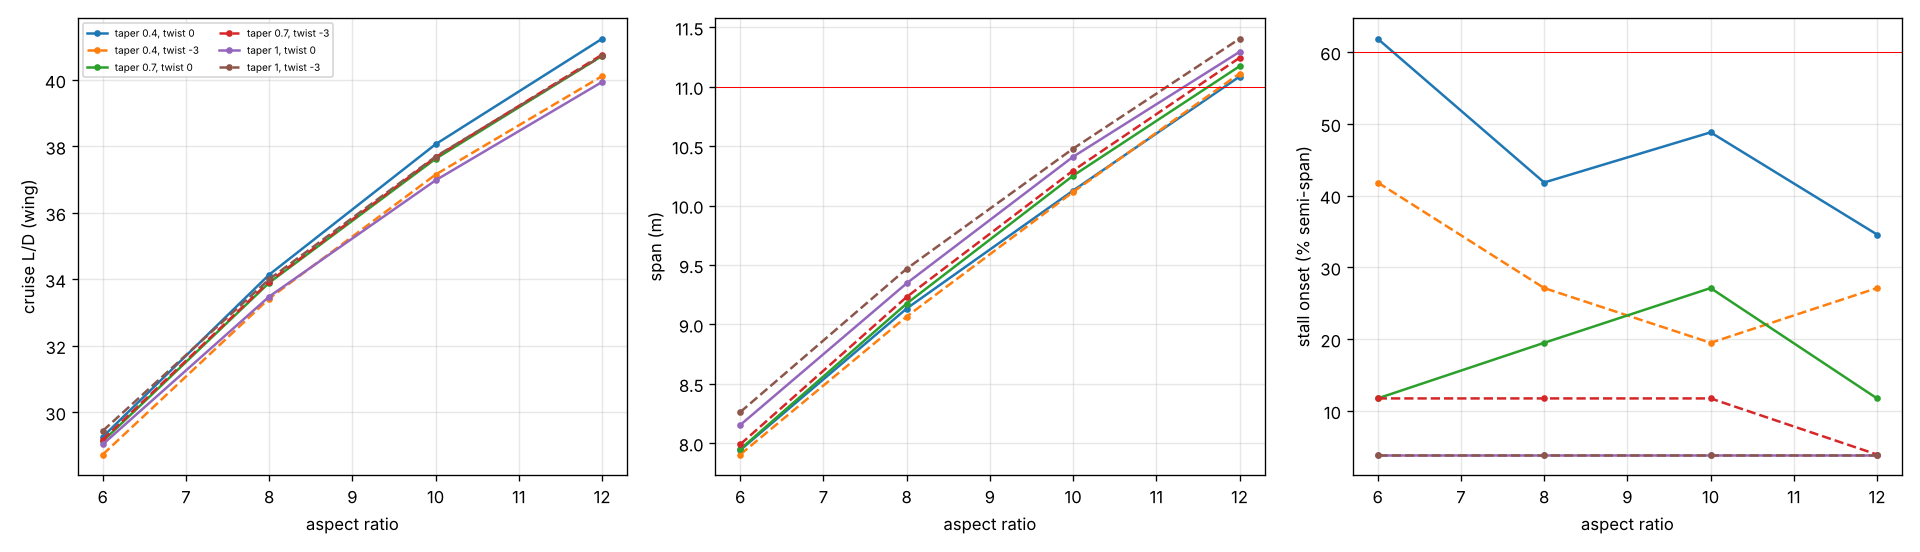
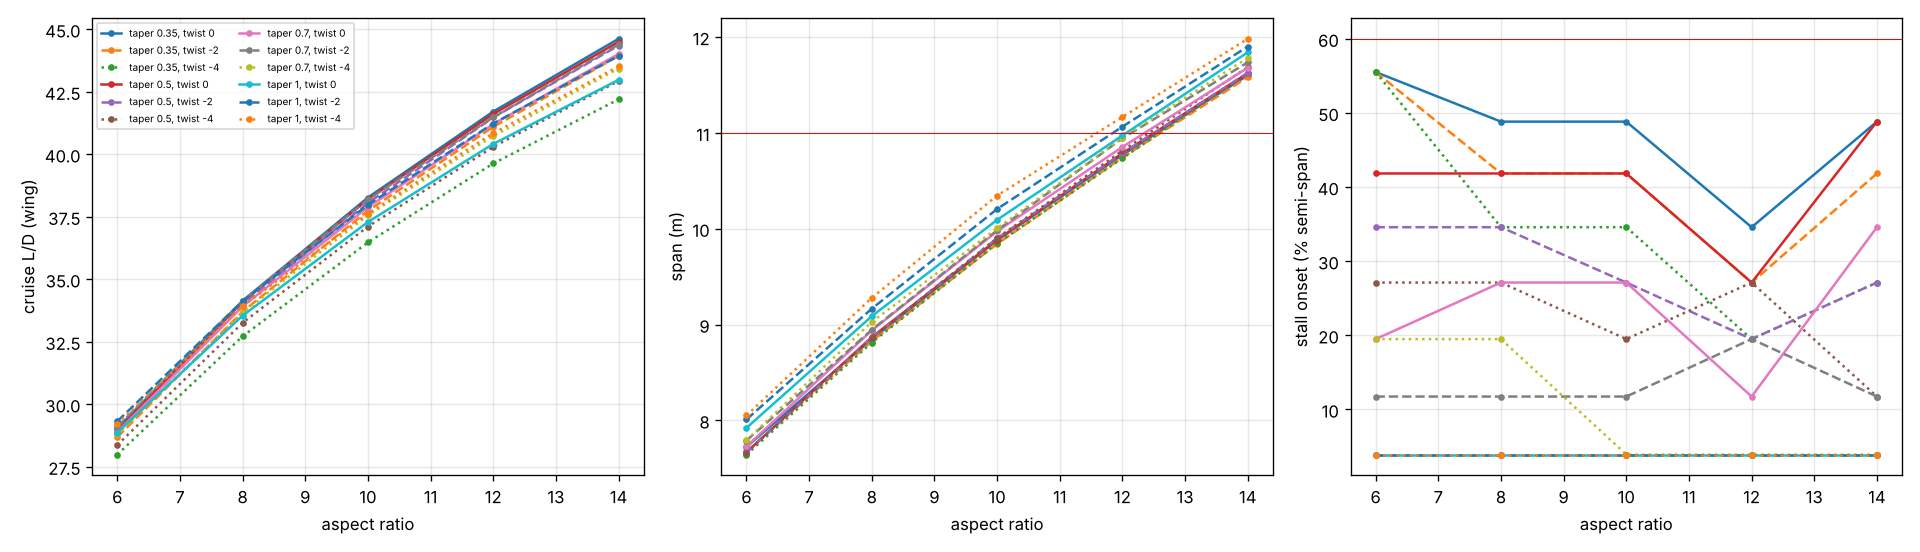
Free transition near stall: fix the e^N coupling (no more fully turbulent fallbacks)
- laminar march starts at the real stagnation point (U_e clipped to 0 where
  the wall Cp > 1 gave a spurious separation and a 0.2 c laminar region at
  alpha 14); bubble length along the surface; stagnation->LE stretch laminar
- march stops when H leaves the physical range (H 3.55 -> -143 behind the
  suction peak reported 'laminar to the trailing edge')
- wake / trailing-edge cells stay turbulent; intermittency changes blended
  over the settle iterations (cold starts at alpha 18-22, Re 4.4e6)
- polar: engineering convergence for long runs, Cd oscillation band 2 %
NACA 2412 Re 2.2e6 / 4.4e6, -6..22 deg: 0 fallbacks (were 5 / 2).
Report: validation/transition_stall_fix.md

diff --git a/src/transition.py b/src/transition.py
@@ -104,6 +104,16 @@ def _cd2_ret_over_hs(H):        # 2 Re_theta CD / H*
                     0.207 - 0.0016 * (H - 4) ** 2 / (1 + 0.02 * (H - 4) ** 2))
 
 
+def _separated(y, H_sep):
+    """laminar separation, or a march that left the physical range: in the
+    steep adverse gradient behind a high-alpha suction peak one RK4 sub-step
+    can throw H from ~3.5 to large negative values (NACA 2412, Re 2.2e6,
+    alpha 10: H 3.55 -> -143); the march then ran on to the trailing edge
+    and reported 'laminar to the trailing edge' -> transition jumped aft and
+    the leading-edge region stalled"""
+    return (not np.all(np.isfinite(y))) or y[1] >= H_sep or y[1] < 1.02 or y[0] <= 0.0
+
+
 def laminar_bl(s, Ue, re, H_sep=3.8):
     """Laminar integral boundary layer on a given edge-velocity distribution
     (momentum + kinetic-energy integral equations, Drela's laminar closure):
@@ -161,14 +171,30 @@ def laminar_bl(s, Ue, re, H_sep=3.8):
             k4 = rhs(x + hh, y + hh * k3)
             y = y + hh / 6 * (k1 + 2 * k2 + 2 * k3 + k4)
             x += hh
-            if y[1] >= H_sep or not np.all(np.isfinite(y)):
+            if _separated(y, H_sep):
                 break
-        if y[1] >= H_sep or not np.all(np.isfinite(y)):
+        if _separated(y, H_sep):
             sep = i
             break
         th[i], H[i] = y
     ret = Ue * th * re
     return th, H, ret, sep
+
+
+def march_start(Ue, u_min=0.02):
+    """index where the laminar march starts: the last of the leading stations
+    with U_e ~ 0. Next to the stagnation point the RANS wall pressure can
+    slightly exceed the free-stream total pressure (Cp > 1 by a few 1e-3:
+    numerical total-pressure error), U_e = sqrt(1 - 2 p) is then clipped to
+    0 for one or two columns; marching from there gave theta from U_e ~ 0
+    and an immediate spurious 'laminar separation' (NACA 2412, Re 2.2e6,
+    alpha 14: transition estimate 0.2 c instead of 0.01 c -> the leading-edge
+    laminar region burst into stall and the solution diverged)."""
+    Ue = np.asarray(Ue, float)
+    i0 = 0
+    while i0 + 2 < len(Ue) and Ue[i0 + 1] < u_min:
+        i0 += 1
+    return i0
 
 
 # ----------------------------------------------------------------------
@@ -298,6 +324,16 @@ class Transition:
         self._sep_hist = {"upper": [], "lower": []}      # last 3 settled estimates
         self._last_dir = {"upper": 0, "lower": 0}
         self.last = None
+        # intermittency changes are blended in over ramp_n iterations (set by
+        # solve_with_transition; 0 = at once). gamma multiplies the eddy
+        # viscosity, so switching a region laminar in one iteration removes
+        # nu_t ~ 1e4 nu there at once: a cold start deep in stall (NACA 2412,
+        # Re 4.4e6, alpha 18; the turbulent start-up flow still unsettled)
+        # took the lower surface laminar to the trailing edge, and the
+        # trailing-edge cells under the separated upper flow blew up within
+        # 10 iterations. The converged solution is the same.
+        self.ramp_n = 0
+        self._ramp = None
         m = solver.m
         wall = np.where(solver.b_wall)[0]
         # nearest wall face of every cell, and wall face -> column
@@ -306,6 +342,8 @@ class Transition:
         from turbulence import wall_distance
         _, self._nearest = wall_distance(m, wall, return_index=True)
         self._face_col = cKDTree(self.cols["xw"]).query(m.bxf[wall])[1]
+        x_te = float(m.bxf[wall][:, 0].max())
+        self._before_te = m.xc[:, 0] < x_te - 0.003 * float(np.ptp(m.bxf[wall][:, 0]))
         if self.auto_start:
             solver.turb.gamma = None               # fully turbulent until the first estimate
         else:
@@ -332,16 +370,47 @@ class Transition:
         lam_col = np.zeros(len(self.cols["xw"]), bool)
         for side in ("upper", "lower"):
             sd = surf[side]
+            # at high |alpha| the stagnation point lies on the other side of
+            # the leading edge: the stretch stagnation point -> leading edge
+            # (x decreasing) is laminar whenever transition is downstream of it
+            i_le = int(np.argmin(sd["x"]))
             lam = sd["x"] <= self.x_tr[side]
+            if self.x_tr[side] > sd["x"][i_le]:
+                lam[:i_le + 1] = True
             # laminar only up to the first point past x_tr (monotone in s)
             stop = np.argmax(~lam) if (~lam).any() else len(lam)
             lam_col[sd["i"][:stop]] = True
         lam_col[surf["i_stag"]] = True
         face_lam = lam_col[self._face_col]
-        gamma = np.where(face_lam[self._nearest], 0.0, 1.0)
-        self.s.turb.gamma = gamma
+        # the wake and the trailing-edge corner cells stay turbulent (as the
+        # wake in XFOIL): with a lower surface laminar to the trailing edge
+        # these cells (wall distance ~1e-4 c) were laminar too, and under a
+        # separated upper-surface flow they blew up (NACA 2412, Re 4.4e6,
+        # cold start at alpha 18-22)
+        gamma = np.where(face_lam[self._nearest] & self._before_te, 0.0, 1.0)
+        cur = self.s.turb.gamma
+        if self.ramp_n > 0:
+            g0 = np.ones_like(gamma) if cur is None else np.asarray(cur, float).copy()
+            if np.any(g0 != gamma):
+                self._ramp = [g0, gamma, 0]
+                self.s.turb.gamma = g0
+            else:
+                self._ramp = None
+                self.s.turb.gamma = gamma
+        else:
+            self.s.turb.gamma = gamma
         self.surf = surf
         return gamma
+
+    def step(self):
+        """one iteration of an intermittency blend in progress"""
+        if self._ramp is None:
+            return
+        g0, g1, k = self._ramp
+        k += 1
+        w = min(k / self.ramp_n, 1.0)
+        self.s.turb.gamma = g0 + w * (g1 - g0)
+        self._ramp = None if w >= 1.0 else [g0, g1, k]
 
     def estimate(self, surf):
         """Transition estimate per surface from the laminar integral boundary
@@ -352,23 +421,35 @@ class Transition:
         out = {}
         for side in ("upper", "lower"):
             sd = surf[side]
-            th, H, ret, sep = laminar_bl(sd["s"], sd["Ue"], self.re)
+            i0 = march_start(sd["Ue"])
+            s, Ue, x = sd["s"][i0:] - sd["s"][i0], sd["Ue"][i0:], sd["x"][i0:]
+            i_le = int(np.argmin(x))
+
+            def x_at(sv):
+                """chordwise position of the arc length sv; on the stretch
+                ahead of the leading edge -> the leading edge"""
+                if sv <= s[i_le]:
+                    return float(x[i_le])
+                return float(min(np.interp(sv, s, x), 1.0)) if sv <= s[-1] else 1.0
+
+            th, H, ret, sep = laminar_bl(s, Ue, self.re)
             end = sep if sep is not None else len(th)
             end = max(end, 2)
-            N, rate = integrate_N(sd["s"][:end], H[:end], ret[:end], th[:end])
+            N, rate = integrate_N(s[:end], H[:end], ret[:end], th[:end])
             hit = np.where(N >= self.ncrit)[0]
             if len(hit):
                 j = hit[0]
                 f = (self.ncrit - N[j - 1]) / max(N[j] - N[j - 1], 1e-12)
-                x_est, how = sd["x"][j - 1] + f * (sd["x"][j] - sd["x"][j - 1]), "N_crit"
+                x_est, how = x_at(s[j - 1] + f * (s[j] - s[j - 1])), "N_crit"
             elif sep is not None:
-                x_est = min(sd["x"][sep] + 4e4 / (self.re * max(sd["Ue"][sep], 0.1)), 1.0)
+                # Horton's bubble transition length, measured along the surface
+                x_est = x_at(s[sep] + 4e4 / (self.re * max(Ue[sep], 0.1)))
                 how = "laminar separation"
             else:
                 x_est, how = 1.0, "laminar to the trailing edge"
             out[side] = {"x_est": float(x_est), "how": how, "N_end": float(N[end - 1]),
-                         "x_sep": None if sep is None else float(sd["x"][sep]),
-                         "N": N, "x": sd["x"][:end], "H": H[:end], "theta": th[:end]}
+                         "x_sep": None if sep is None else float(x[sep]),
+                         "N": N, "x": x[:end], "H": H[:end], "theta": th[:end]}
         return out
 
     def update(self, settled=True):
@@ -437,6 +518,13 @@ def solve_with_transition(solver, tr, tol=1e-7, max_iter=12000, chunk=400, settl
     n_start1, n_start2 = max(int(150 * scale), 10), max(int(300 * scale), 20)
     total = 0
     prev_F = None
+    tr.ramp_n = settle
+    user_cb = callback
+
+    def callback(it, r):
+        tr.step()
+        return user_cb(it, r) if user_cb is not None else None
+
     if tr.auto_start:                     # start: fully turbulent first
         # at least 150 iterations even if the residual is already small: a
         # warm-started field (previous angle, rotated) looks converged at once

diff --git a/tests/test_transition.py b/tests/test_transition.py
@@ -98,3 +98,52 @@ def test_coupled_naca0012_alpha0():
     assert r["Cd"] < 0.0065
     rt, _ = polar.run_point("naca0012", 3e6, 0.0, level=0.6, transition="off")
     assert rt["Cd"] > 1.4 * r["Cd"] and rt["x_tr_upper"] is None
+
+
+# ----------------------------------------------------------------------
+# high-alpha robustness (free transition near stall)
+# ----------------------------------------------------------------------
+def _le_surface(n_zero=2):
+    """'upper' surface as at high alpha: stagnation point on the lower side
+    (x decreasing to the leading edge, then increasing), U_e clipped to 0 at
+    the first stations (wall Cp slightly > 1), suction peak 2.4 just behind
+    the leading edge, steep recovery"""
+    x = np.r_[np.linspace(0.03, 0.0, 15), np.linspace(0.0, 1.0, 200)[1:]]
+    s = np.r_[0.0, np.cumsum(np.abs(np.diff(x)))]
+    s_pk = s[15] + 0.004
+    Ue = np.where(s < s_pk, 2.4 * s / s_pk, 2.4 - 1.2 * np.sqrt(np.maximum(s - s_pk, 0) / (s[-1] - s_pk)))
+    Ue[:n_zero] = 0.0
+    return {"s": s, "x": x, "Ue": Ue}
+
+
+def test_march_starts_at_the_real_stagnation_point():
+    """U_e ~ 0 at the first columns must not produce an immediate 'laminar
+    separation' far ahead of the leading edge (NACA 2412 alpha 14: the
+    estimate was 0.2 c instead of 0.01 c, and the solution diverged)"""
+    from types import SimpleNamespace
+    sd = _le_surface()
+    assert T.march_start(sd["Ue"]) == 1
+    # the plain march from the clipped station 'separates' at once (the bug)
+    assert T.laminar_bl(sd["s"], sd["Ue"], 2.2e6)[3] == 2
+    tr = SimpleNamespace(re=2.2e6, ncrit=9.0)
+    clean = _le_surface(0)
+    e = T.Transition.estimate(tr, {"upper": sd, "lower": clean})["upper"]
+    e0 = T.Transition.estimate(tr, {"upper": clean, "lower": clean})["upper"]
+    assert e["how"] == e0["how"]
+    assert e["x_est"] == pytest.approx(e0["x_est"], abs=1e-3)
+    assert e["x_sep"] == pytest.approx(e0["x_sep"], abs=1e-3)
+    assert e["x_est"] > 0.05                       # not the spurious leading-edge 'separation'
+
+
+def test_laminar_march_stops_when_it_leaves_the_physical_range():
+    """steep adverse gradient: H must never come back negative; the march
+    reports separation instead of running on to the trailing edge"""
+    sd = _le_surface()
+    i0 = T.march_start(sd["Ue"])
+    th, H, ret, sep = T.laminar_bl(sd["s"][i0:] - sd["s"][i0], sd["Ue"][i0:], 2.2e6)
+    assert sep is not None
+    ok = np.isfinite(H)
+    assert np.all((H[ok] > 1.0) & (H[ok] < 3.8)) and np.all(th[ok] > 0)
+    assert not T._separated(np.array([1e-4, 2.5]), 3.8)
+    assert T._separated(np.array([1e-4, -143.0]), 3.8)
+    assert T._separated(np.array([np.nan, 2.5]), 3.8)

diff --git a/src/polar.py b/src/polar.py
@@ -235,6 +235,20 @@ def run_point(spec, re, alpha, level=1.0, init=None, tol=1e-7, max_iter=6000,
                 scale = np.maximum(np.abs(h[-1]), [0.1, 0.01, 0.01])  # Cl, Cd, Cm scales
                 if np.all(np.ptp(h, axis=0) / scale < force_tol):
                     return True
+            # long runs: residuals stalled a little below the threshold while
+            # the forces creep at the 1e-5 level (free transition at high
+            # alpha, a laminar bubble at the leading edge: NACA 2412, Re 2.2e6,
+            # alpha 10 drifted 6e-5 in Cl over 2000 iterations and ran to the
+            # iteration limit) -> engineering convergence: 5 x force_tol over
+            # 500 iterations
+            n5 = max(int(500 * k_it) // every, 3)
+            if len(s.history) >= 1500 * k_it and len(hist) > n5 and \
+                    max(r.values()) < (1e-4 if compressible else 1e-5) and \
+                    (tr is None or tr.converged):
+                h = np.array(hist[-n5 - 1:])[:, 1:]
+                scale = np.maximum(np.abs(h[-1]), [0.1, 0.01, 0.01])
+                if np.all(np.ptp(h, axis=0) / scale < 5 * force_tol):
+                    return True
             # small persistent oscillation (e.g. laminar flow reaching a blunt
             # trailing edge sheds weakly): residuals stall, forces vary < 0.5 %
             # -> stop and report the mean
@@ -249,8 +263,12 @@ def run_point(spec, re, alpha, level=1.0, init=None, tol=1e-7, max_iter=6000,
                 q = len(res_max) // 4
                 stalled = stalled and res_max[-q:].mean() < 1.3 * res_max[-2 * q:-q].mean()
                 h = np.array(hist[-50:])[:, 1:]
+                # Cd band 2 % peak-to-peak: a laminar separation near the
+                # trailing edge (free transition, NACA 2412 Re 2.2e6 alpha -6)
+                # flips Cd by +-0.65 % for thousands of iterations; the mean
+                # and the amplitude are reported (Cd_amp)
                 small = (np.ptp(h[:, 0]) < 0.005 * max(abs(h[:, 0].mean()), 0.1) and
-                         np.ptp(h[:, 1]) < 0.01 * h[:, 1].mean())
+                         np.ptp(h[:, 1]) < 0.02 * h[:, 1].mean())
                 if stalled and small:
                     osc["flag"] = True
                     return True

diff --git a/validation/transition_stall_fix.md b/validation/transition_stall_fix.md
@@ -1,0 +1,28 @@
+# Free transition near stall: fixed (2026-10-09)
+
+Free-transition (e^N) polars used to diverge near stall (NACA 2412, Re 2.2e6, α ≥ 14°), and the wing tool reran those angles fully turbulent. Three causes, all in the RANS ↔ transition coupling (`src/transition.py`), plus two convergence-test tweaks (`src/polar.py`):
+
+| # | Cause | Effect | Fix |
+|---|---|---|---|
+| 1 | At high α the stagnation point is on the lower surface. There the RANS wall pressure is a few 1e-3 above the total pressure, so U_e = √(1−2p) is clipped to 0 for 1–2 columns, and the laminar march started from U_e ≈ 0 | immediate spurious "laminar separation" at x 0.034 on the lower side; adding the bubble length (with the U_e floor 0.1: 0.18 c) to the *chordwise* x → transition estimate 0.20 c instead of 0.01 c at α 14 → the leading-edge laminar region burst into stall → NaN | the march starts at the last U_e ≈ 0 station (`march_start`); the bubble length is measured along the surface; the stretch from the stagnation point to the leading edge counts as laminar |
+| 2 | Steep adverse gradient behind the suction peak: one RK4 sub-step threw H from 3.55 to −143. The separation test (H ≥ 3.8) never fired | "laminar to the trailing edge" on the suction side at α 10–16 → transition jumped to 0.25 c → NaN | H ≤ 1.02, θ ≤ 0 or non-finite values count as separation (`_separated`) |
+| 3 | Cold start deep in stall (Re 4.4e6, α 18–22): with the lower surface laminar to the trailing edge, the trailing-edge corner cells (wall distance 1e-4 c) were set laminar while the separated upper-surface flow passes them, and ν_t ≈ 1e4 ν was switched off in one iteration | \|U\| 2.6 → 246 within 10 iterations at the trailing edge | wake and trailing-edge cells (last 0.3 % of chord) stay turbulent, as the wake in XFOIL; intermittency changes are blended in over the settle iterations (converged solution unchanged) |
+| 4 | Slow drift / flip-flop (Cl ±1e-4, Cd ±0.65 %) with the residuals stalled at 3e-6 | α 10 and −6 ran to the 6000-iteration limit, "unsteady" | after 1500 iterations: converged when the forces vary < 5 × force_tol over 500 iterations; the small-oscillation Cd band is now 2 % peak-to-peak (the mean and amplitude are reported) |
+
+## Result (`transition_stall_fix.png`)
+NACA 2412, level 1, N_crit 9, −6…22° in steps of 2°:
+
+| | Re 2.2e6 before | Re 2.2e6 after | Re 4.4e6 before | Re 4.4e6 after |
+|---|---|---|---|---|
+| fully turbulent fallbacks | 5 (α 14–22) | **0** | 2 (α 14, 22) | **0** |
+| Cl_max (section) | 1.67 (α 16, turbulent) | **1.74 (α 18)** | 1.74 (α 16) | **1.86 (α 18)** |
+| Cd at α 12 | 0.0170 | 0.0157 | 0.0151 | 0.0136 |
+| α ≤ 8°, change vs before | — | Cl ≤ 0.7 %, Cd ≤ 1.3 % (largest at α −6: the Cd flip-flop) | — | Cl ≤ 0.2 %, Cd ≤ 0.3 % |
+
+- The free-transition polars before the fix still contained bad points that hadn't diverged: at Re 4.4e6, α 16–18 "converged" with the spurious 0.2 c laminar region (Cd 0.0265 and 0.0443 instead of 0.0222 and 0.0322).
+- α 20 (both Re) and α 22 (Re 4.4e6) are genuinely unsteady past the lift peak (fully turbulent too); the mean is reported.
+- Wing demo (`wing.py`, span 10 m, taper 0.5): C_L,max 1.627 → **1.724**; cruise unchanged (max L/D 34.8 at α 3°).
+- Sizing demo: C_L,max 1.61 → 1.70, so a smaller wing (9.7 m², AR 12) meets the 27 m/s stall speed.
+- Caution: SA RANS tends to over-predict C_L,max for trailing-edge stall. Compare the stall region with wind-tunnel data before relying on it for design.
+
+Tests: `tests/test_transition.py` adds two regression tests (synthetic high-α surface: the plain march reproduces the spurious separation at station 2; the fixed estimate equals the one without clipped stations; H never leaves the physical range).

diff --git a/validation/design_report.md b/validation/design_report.md
@@ -21,7 +21,7 @@ The gain comes from moving transition aft (a natural-laminar-flow trend: maximum
 ## 📏 Wing sizing wizard — `design_wing_sizing.py`
 Mission (mass, cruise speed and altitude, stall speed, span limit, sweep) + airfoil → for every aspect ratio × taper × washout: area from the stall speed with that planform's own C_L,max (wing tool, iterated), cruise C_L, α and wing L/D, stall-onset position; ranked by L/D with the span limit and a root-first-stall check (onset ≤ 60 % semi-span). Wing only.
 
-Demo (`design_wing_sizing_demo.png`): 750 kg, 60 m/s at 1500 m, stall 27 m/s, span ≤ 11 m, NACA 2412 CFD polars: 24 planforms in 85 s → AR 10, taper 0.4, no twist: S 10.3 m², b 10.1 m, chords 1.45/0.58 m, cruise L/D 38 (wing), C_L,max 1.61, stall onset 49 % semi-span. Trends as in the textbooks: rectangular wings stall at the root (4 %), strong taper moves the stall outboard, washout moves it back inboard.
+Demo (`design_wing_sizing_demo.png`): 750 kg, 60 m/s at 1500 m, stall 27 m/s, span ≤ 11 m, NACA 2412 CFD polars (free transition at every angle, 2026-10-09): 60 planforms in 5 min → AR 12, taper 0.35, no twist: S 9.7 m², b 10.8 m, chords 1.33/0.47 m, cruise L/D 42 (wing), C_L,max 1.70, stall onset 35 % semi-span. (Earlier demo, with fully turbulent post-stall polars: C_L,max 1.61, best AR 10.) Trends as in the textbooks: rectangular wings stall at the root (4 %), strong taper moves the stall outboard, washout moves it back inboard.
 
 ## 🌀 Drag-rise explorer — `design_drag_rise.py`
 Mach sweep at fixed Cl with the compressible RANS solver (α by secant at every Mach, warm-started): Cd(M), drag-divergence Mach by dCd/dM = 0.1 (Douglas) and +20 counts (Boeing), Korn's equation for comparison, Mach fields with the sonic line.

diff --git a/validation/phase6_report.md b/validation/phase6_report.md
@@ -40,7 +40,7 @@ NACA 2412 wing, b 10 m, chords 1.6/0.8 m (AR 8.3, taper 0.5), 5° sweep, 3° dih
 - past C_L,max the strip-theory solution is not unique (flagged "not converged"): trend only.
 
 ## Found on the way
-- **Free-transition CFD polars diverge near stall** for NACA 2412 at Re 2.2e6 (α ≥ 14°, also with the code before Phase 5 — an existing weakness of the e^N coupling at high α). The wing tool now reruns such angles fully turbulent and labels them "(fully turbulent fallback)" in the cached polar.
+- ~~Free-transition CFD polars diverge near stall~~ **fixed 2026-10-09** (`transition.py`): three causes, see `validation/transition_stall_fix.md`. NACA 2412 polars at Re 2.2e6 and 4.4e6 now run with free transition from −6° to 22° without any fallback (the fallback stays in the code as a safety net). Demo wing: C_L,max 1.627 → 1.724, cruise unchanged.
 
 ## Limits
 - Attached-flow lattice: no leading-edge vortex lift (delta wings), no fuselage/tail, symmetric flight only.
